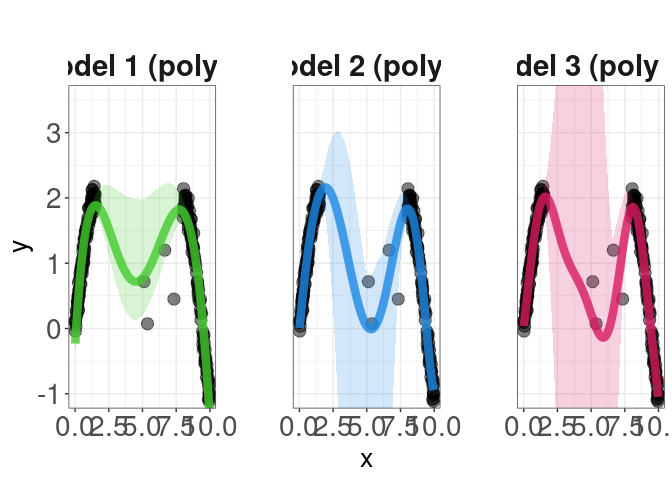
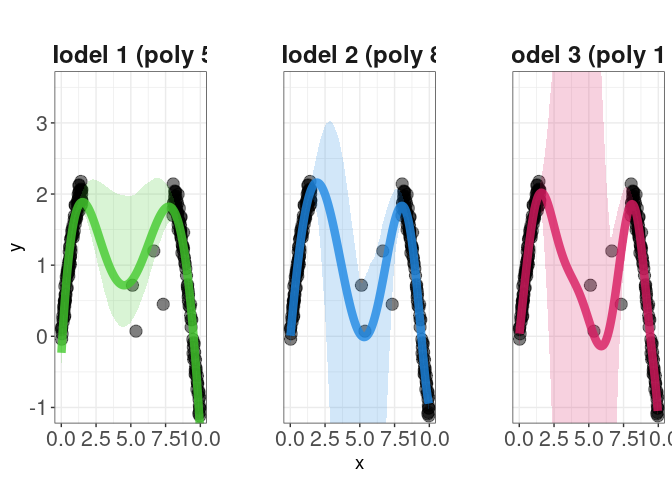
markdown

diff --git a/notebooks/Bootstrap_Notebook.md b/notebooks/Bootstrap_Notebook.md
@@ -122,11 +122,11 @@ g <- ggplot() +
   # Customize theme
   theme_bw() +
   labs(title = "", x = "x", y = "y") +
-  theme(text = element_text(size = 20),
-        axis.text = element_text(size = 21),
+  theme(text = element_text(size = 14),
+        axis.text = element_text(size = 16),
         legend.key.width = unit(2, "cm"), legend.position = "none",
         strip.background = element_blank(),  # Remove grey facet boxes
-        strip.text = element_text(size = 22, face = "bold"),
+        strip.text = element_text(size = 18, face = "bold"),
         panel.spacing.x = unit(4, "lines")) +
   coord_cartesian(xlim = range(x_sparse), ylim = c(-1, 3.5))
 ```
